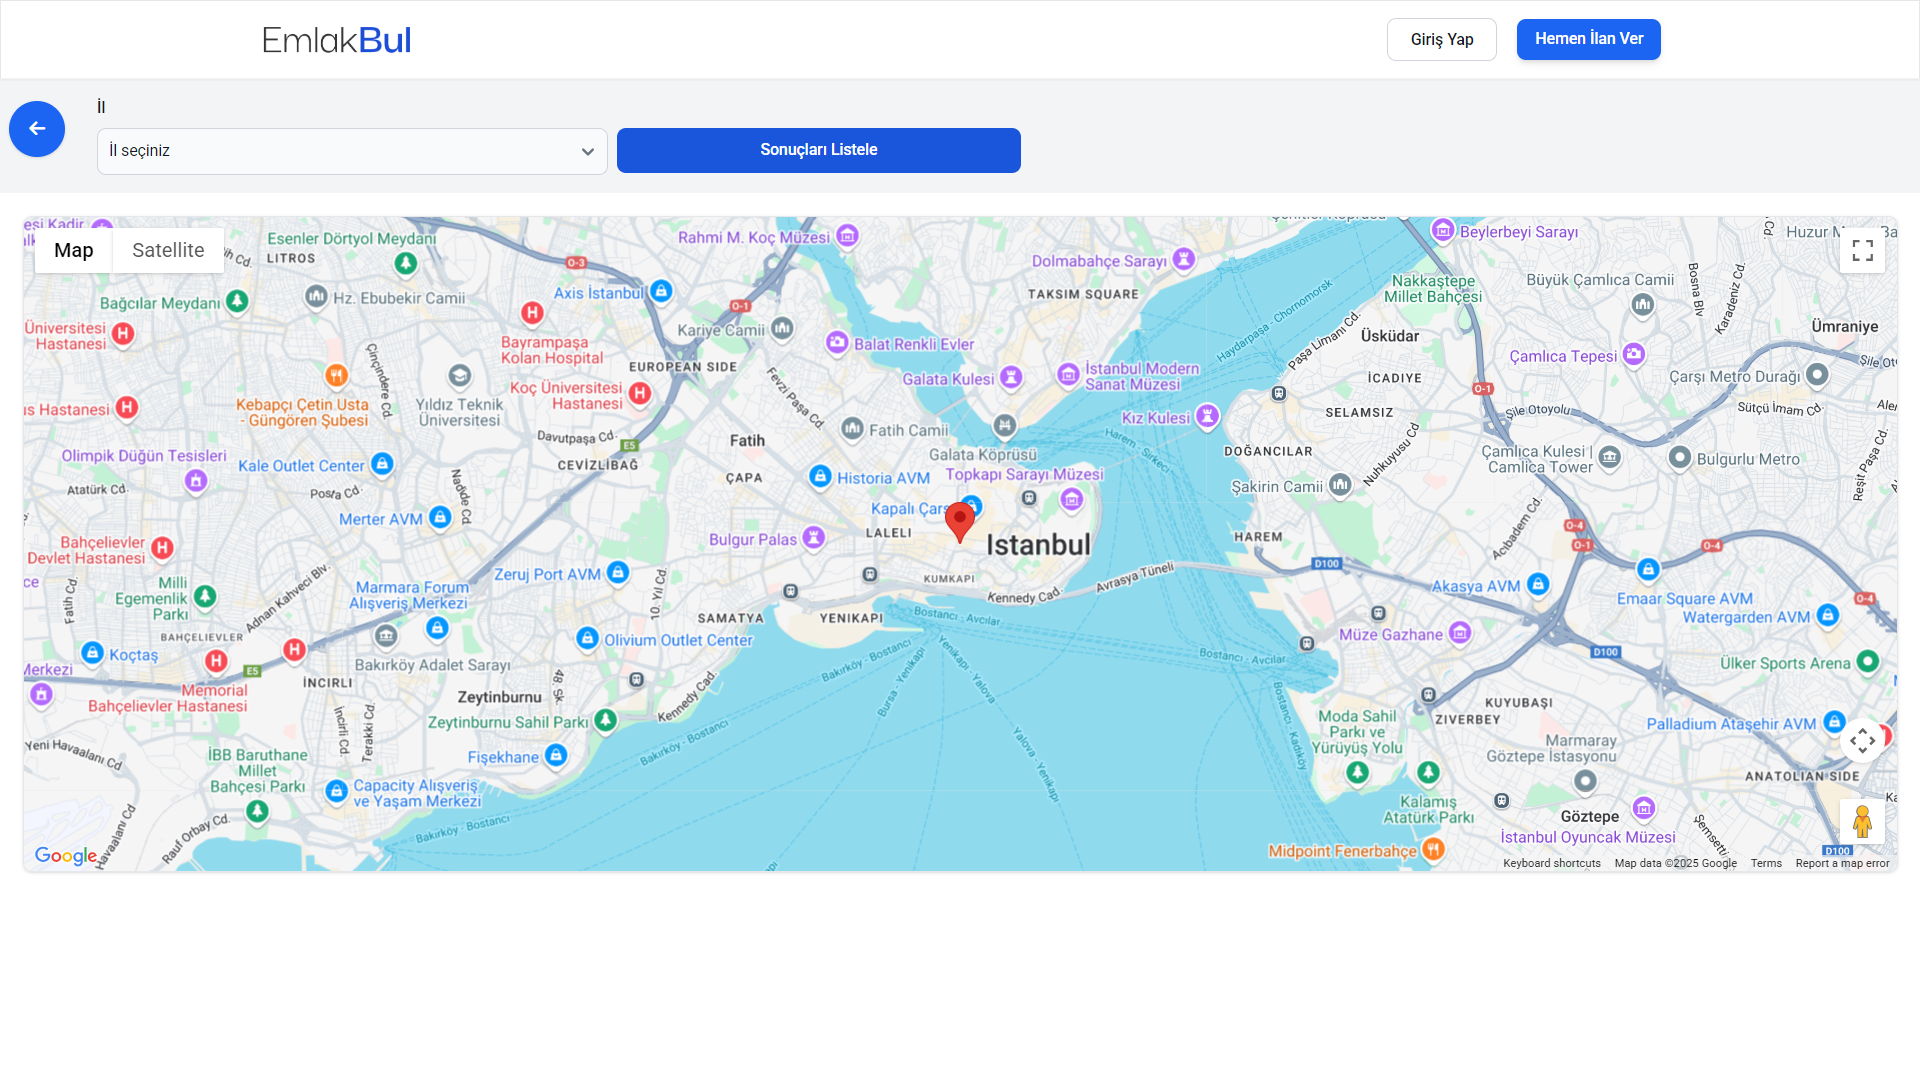
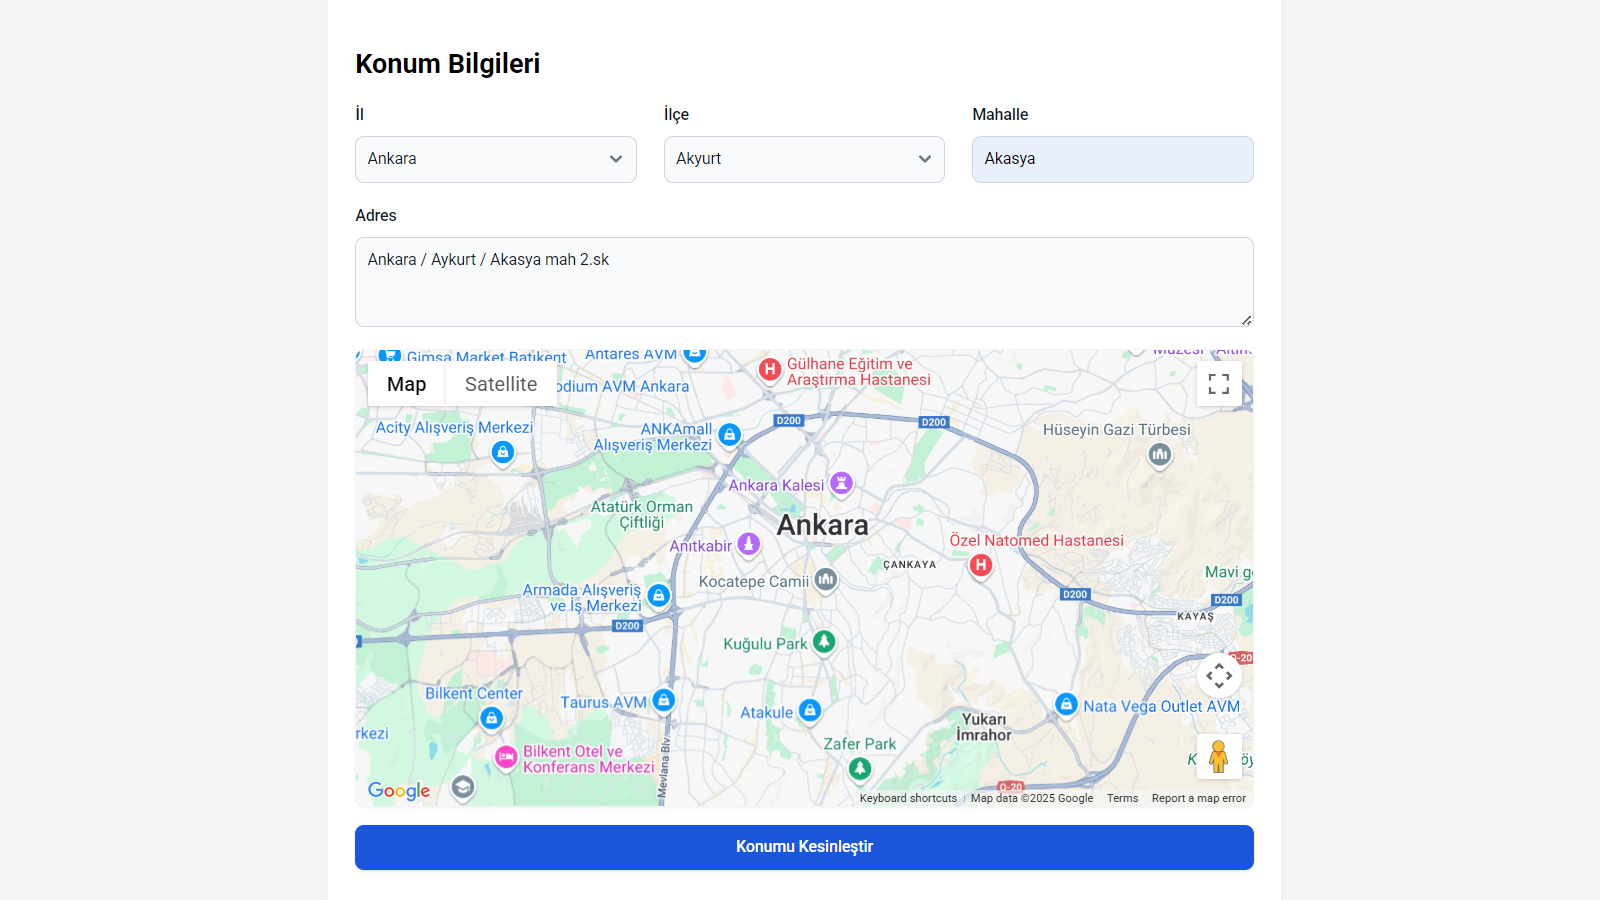
Created image carousel in projects cards

diff --git a/src/components/Projects.jsx b/src/components/Projects.jsx
@@ -1,6 +1,7 @@
 import Title from "./Title"
 import PrimaryBtn from "./PrimaryBtn"
 import SecondaryBtn from "./SecondaryBtn"
+import ProjectCard from "./ProjectCard"
 import ProgrammingBadget from "./ProgrammingBadget"
 import { FaCss3Alt, FaGitAlt, FaGithub, FaHtml5, FaLaravel } from "react-icons/fa"
 import { BsBoxArrowUpRight } from "react-icons/bs";
@@ -11,6 +12,14 @@ import { SiGooglemaps } from "react-icons/si"
 
 
 function Projects() {
+
+    let project_1 = [
+        "./src/assets/project_1/A.png",
+        "./src/assets/project_1/B.png",
+        "./src/assets/project_1/C.png",
+        "./src/assets/project_1/D.png",
+        "./src/assets/project_1/E.png",
+    ]
 
     return(
         <section id="projects" className="px-4 md:px-0 pt-16 md:pt-18 md:mt-32 min-h-[1200px]">
@@ -73,12 +82,10 @@ function Projects() {
                     </div>
                     
                     {/* card, make img slider , create slider component*/}
-                    <div className="w-full lg:w-1/2 flex flex-col border border-slate-200 rounded-3xl overflow-hidden">
-                        <div>
-                            <img src="./src/assets/project_1/A.png" alt="" />
-                        </div>
+                    <ProjectCard imgs={project_1}>
+
                         <div className="h-full p-4 flex flex-col gap-3 lg:gap-6">
-                            <div>
+                            <div className="mt-auto">
                                 {/* title */}
                                 <h1 className="text-3xl text-slate-700">Real Estate Web Application</h1>
                                 {/* date */}
@@ -89,8 +96,8 @@ function Projects() {
                                 Lorem ipsum dolor sit amet consectetur adipisicing elit. Maxime ducimus sit veniam perspiciatis, 
                                 qui praesentium delectus dignissimos alias amet similique. Numquam dolorum iste fugit totam!
                             </p>
-                            {/* languages logo */}
-                            <div className="flex flex-wrap gap-1 mt-auto">
+                            {/* technologies logo */}
+                            <div className="hidden md:flex flex-wrap gap-1 ">
 
                                 <ProgrammingBadget >
                                     <FaLaravel />
@@ -126,7 +133,7 @@ function Projects() {
                                 </SecondaryBtn>
                             </div>
                         </div>
-                    </div>
+                    </ProjectCard>
                 </div>
 
             </div>

diff --git a/src/components/ImageCarousel.jsx b/src/components/ImageCarousel.jsx
@@ -1,0 +1,30 @@
+import { useState } from "react";
+
+function ImageCarousel({ imgs }) {
+
+    const [currentIndex, setCurrentIndex] = useState(0);
+
+    return (
+        <div className="relative h-44 md:h-64 mb-4">
+                <img src={imgs[currentIndex]} alt={`Project screenshot ${currentIndex + 1}`} className="absolute" loading="lazy"/>
+            <div>
+                {/* right */}
+                <button onClick={() => setCurrentIndex((currentIndex + 1) % imgs.length)} className="group text-slate-800 absolute right-0 mr-2 top-1/2 translate-y-1/2 bg-slate-50 opacity-90 cursor-pointer rounded-full p-2 shadow-sm border border-slate-400 hover:bg-slate-100 transition-colors duration-200">
+                    <svg xmlns="http://www.w3.org/2000/svg" fill="none" viewBox="0 0 24 24" strokeWidth="1.5" stroke="currentColor" className="size-6 group-hover:-translate-y-1 transition-transform duration-150">
+                    <path strokeLinecap="round" strokeLinejoin="round" d="M17.25 8.25 21 12m0 0-3.75 3.75M21 12H3" />
+                    </svg>
+                </button>
+
+                {/* left */}
+                <button onClick={() => setCurrentIndex((currentIndex - 1 + imgs.length) % imgs.length)} className="group text-slate-800 absolute left-0 ml-2 top-1/2 translate-y-1/2 bg-slate-50 opacity-90 cursor-pointer rounded-full p-2 shadow-sm border border-slate-400 hover:bg-slate-100 transition-colors duration-200">
+                    <svg xmlns="http://www.w3.org/2000/svg" fill="none" viewBox="0 0 24 24" strokeWidth="1.5" stroke="currentColor" className="size-6 group-hover:-translate-y-1 transition-transform duration-150">
+                    <path strokeLinecap="round" strokeLinejoin="round" d="M6.75 15.75 3 12m0 0 3.75-3.75M3 12h18" />
+                    </svg>
+                </button>
+
+            </div>
+        </div>
+    )
+}
+
+export default ImageCarousel;

diff --git a/src/components/ProjectCard.jsx b/src/components/ProjectCard.jsx
@@ -1,0 +1,13 @@
+import ImageCarousel from "./ImageCarousel";
+
+function ProjectCard({ imgs, children }) {
+
+    return (
+        <div className="w-full lg:w-1/2 flex flex-col border border-slate-200 rounded-3xl overflow-hidden">
+            <ImageCarousel imgs={imgs} />
+            {children}
+        </div>
+    )
+}
+
+export default ProjectCard;
